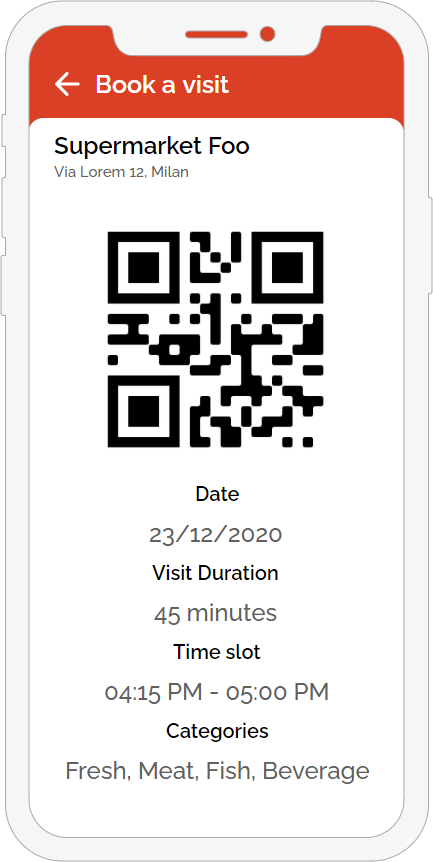
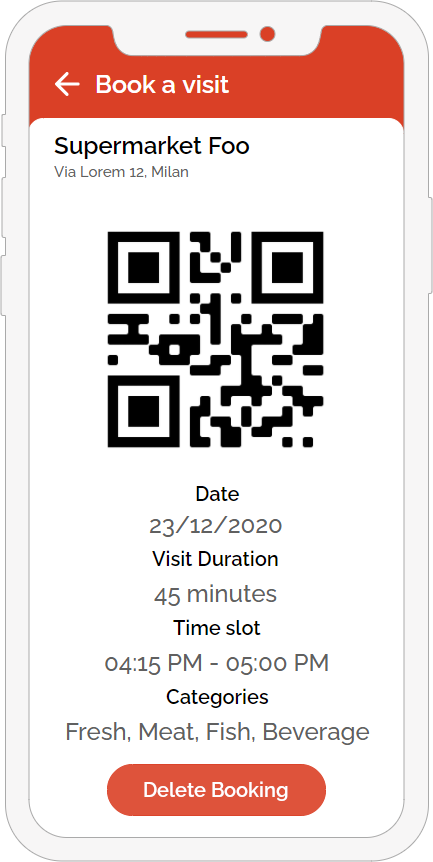
Fix external interfaces

Changed region(s): [[0.1501, 0.6032, 0.8707, 0.9652]]

diff --git a/RASD/chapters/5_effort.tex b/RASD/chapters/5_effort.tex
@@ -1,7 +1,7 @@
 \chapter{Effort Spent}
-
+\vspace{-10mm}
 \section{Teamwork}
-\vspace{2mm}
+\vspace{1mm}
 \begin{center}
     \begin{tabular}{@{}p{0.5\linewidth} p{0.2\linewidth}@{}}
         \hline
@@ -10,12 +10,12 @@
         Introduction & 4 \\ \hline
         Domain Assumptions & 3 \\ \hline
         Functional Requirements & 5 \\ \hline
-        Document Revision & 5 \\ \hline
+        Document Revision & 7 \\ \hline
     \end{tabular}
 \end{center}
 
 \section{Samuele Negrini}
-\vspace{2mm}
+\vspace{1mm}
 \begin{center}
 	\begin{tabular}{@{}p{0.5\linewidth} p{0.2\linewidth}@{}}
 		\hline
@@ -23,15 +23,15 @@
 		Product Functions & 5 \\ \hline
 		Constraints & 1.5 \\ \hline
         Functional Requirements & 8 \\ \hline
-        Use Cases & 4 \\ \hline
-        Traceability Matrix & 2 \\ \hline
+        Use Cases & 6 \\ \hline
+        Traceability Matrix & 4 \\ \hline
         System Software Attributes & 4 \\ \hline
         Other Requirements & 3 \\ \hline
 	\end{tabular}
 \end{center}
 
 \section{Giorgio Piazza}
-\vspace{2mm}
+\vspace{1mm}
 \begin{center}
 	\begin{tabular}{@{}p{0.5\linewidth} p{0.2\linewidth}@{}}
 		\hline
@@ -40,6 +40,8 @@
 		User Characteristics & 2 \\ \hline
 		External Interface Requirements & 8 \\ \hline
 		Scenarios & 1\\ \hline
+		Use Cases & 1\\ \hline
 		Formal Analysis Using Alloy & 12 \\ \hline
+		Document Revision & 1\\ \hline
 	\end{tabular}
 \end{center}

diff --git a/RASD/chapters/3_specific_requirements.tex b/RASD/chapters/3_specific_requirements.tex
@@ -4,6 +4,51 @@ system has to deal with in order to achieve all the functionalities described.
 
 \section{External interface Requirements}
 \subsection{User Interfaces}
+Figures below will present the hypothetical early phase user interfaces of the core functions of the system.
+
+\vspace{0.5cm}
+\begin{minipage}{.5\textwidth}
+	\centering
+	\includegraphics[width=0.9\textwidth]{ticket}
+	\captionsetup{type=figure}
+	\caption{Ticket page.}
+\end{minipage}%
+\begin{minipage}{.5\textwidth}
+	\centering
+	\includegraphics[width=0.9\textwidth]{booking}
+	\captionsetup{type=figure}
+	\caption{Booking page.}
+\end{minipage}
+
+\clearpage
+
+\begin{minipage}{.5\textwidth}
+	\centering
+	\includegraphics[width=0.9\textwidth]{scan}
+	\captionsetup{type=figure}
+	\caption{QR Scan page.}
+\end{minipage}%
+\begin{minipage}{.5\textwidth}
+	\centering
+	\includegraphics[width=0.9\textwidth]{login}
+	\captionsetup{type=figure}
+	\caption{Login Page.}
+\end{minipage}
+
+\bigskip\bigskip
+
+\begin{minipage}{.5\textwidth}
+	\centering
+	\includegraphics[width=0.9\textwidth]{new_store}
+	\captionsetup{type=figure}
+	\caption{New Store page.}
+\end{minipage}%
+\begin{minipage}{.5\textwidth}
+	\centering
+	\includegraphics[width=0.9\textwidth]{manage_bookings}
+	\captionsetup{type=figure}
+	\caption{Manage Bookings page.}
+\end{minipage}
 
 \clearpage
 

diff --git a/RASD/chapters/2_overall_description.tex b/RASD/chapters/2_overall_description.tex
@@ -2,8 +2,7 @@
 
 \section{Product perspective}
 
-The system will be developed from scratch and it will completely replace the legacy system.\newline
-
+The system will be developed from scratch and it will completely replace the legacy system.
 \subsection{Class diagram}
 The class diagram in \autoref{fig:class_diagram} is a high-level representation of the system as a whole.
 

diff --git a/RASD/structure/revision_history.tex b/RASD/structure/revision_history.tex
@@ -5,7 +5,7 @@
 		\toprule
 		\textbf{Date} & \textbf{Revision} & \textbf{Notes}\\
 		\midrule
-		xx/xx/xxxx & v.x.x & Lorem Ipsum\\
+		01/12/2020 & v.1.0 & First release.\\
 		\bottomrule
 	\end{tabular}
 \end{center}

diff --git a/RASD/RASD.tex b/RASD/RASD.tex
@@ -19,5 +19,4 @@
 	\include{chapters/3_specific_requirements}
 	\include{chapters/4_alloy}
 	\include{chapters/5_effort}
-	\include{chapters/6_appendices}
 \end{document}
